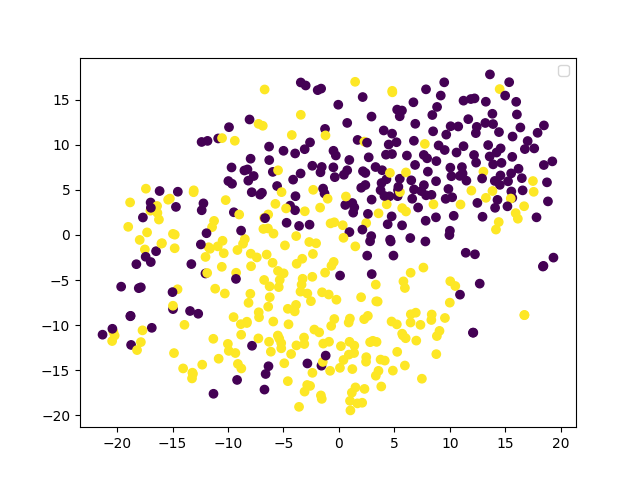
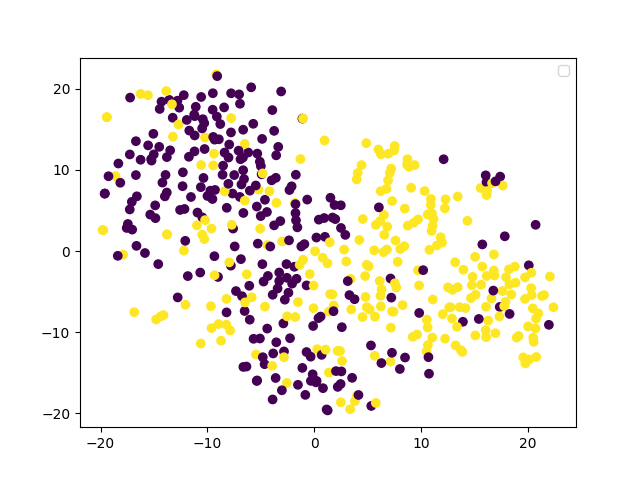
hw-2

diff --git a/hw9/problem2.py b/hw9/problem2.py
@@ -51,36 +51,30 @@ for i, img in enumerate(imgs):
     plt.imshow(img)
 
 
-# img_dataloader = DataLoader(img_dataset, batch_size= 6, shuffle=False)
-# for data in img_dataloader:
-#     img = data
-#     img = img.cuda()
-#
-#     output1, recs = model(img)
-#     break
 
 # # 畫出 reconstruct 的圖
-inp = torch.Tensor(trainX_preprocessed[indexes,]).cuda()
-# inp_ = []
-# for  i in range(inp.shape[0]):
-#     a = transforms.ToPILImage()(inp[i])
-#     a = transforms.ToTensor()(a)
-#     # a = transforms.Normalize(mean=[0.485, 0.456, 0.406], std=[0.229, 0.224, 0.225])(a)
-#     a = torch.unsqueeze(a, 0)
-#     inp_.append(a)
-# inp_ = torch.vstack(inp_)
-# inp_ = inp_.cuda()
-#
-#
-latents, recs = model(inp)
+inp = trainX_preprocessed[indexes,]
+inp_ = []
+for  i in range(inp.shape[0]):
+    a = inp[i].astype(np.uint8)
+    a = transforms.ToPILImage()(a)
+    a = transforms.ToTensor()(a)
+    # a = transforms.Normalize(mean=[0.485, 0.456, 0.406], std=[0.229, 0.224, 0.225])(a)
+    a = torch.unsqueeze(a, 0)
+    inp_.append(a)
+inp_ = torch.vstack(inp_)
+inp_ = inp_.cuda()
+
+
+latents, recs = model(inp_)
 unorm = UnNormalize(mean=(0.485, 0.456, 0.406), std=(0.229, 0.224, 0.225))
 # unorm = UnNormalize(mean=(0.406, 0.456, 0.485), std=(0.225, 0.224,0.229))
 
 # for i in range(recs.shape[0]):
 #     recs[i] = unorm(recs[i])
 # recs = recs * 255.0
-recs = ((recs + 1) / 2).cpu().detach().numpy()
-# recs = recs.cpu().detach().numpy()
+# recs = ((recs + 1) / 2).cpu().detach().numpy()
+recs = recs.cpu().detach().numpy()
 recs = recs.transpose(0, 2, 3, 1)
 
 for i, img in enumerate(recs):

diff --git a/hw9/dataset.py b/hw9/dataset.py
@@ -14,8 +14,8 @@ def preprocess(image_list):
       image_list: List of images (9000, 3, 32, 32)
     """
     image_list = np.array(image_list)
-    image_list = np.transpose(image_list, (0, 3, 1, 2))
-    image_list = (image_list / 255.0) * 2 - 1
+    # image_list = np.transpose(image_list, (0, 3, 1, 2))
+    # image_list = (image_list / 255.0) * 2 - 1
     image_list = image_list.astype(np.float32)
     return image_list
 
@@ -48,14 +48,12 @@ class Image_Dataset(Dataset):
 
     def __getitem__(self, idx):
         images = self.image_list[idx]
-        images = torch.from_numpy(images)
-        # images = images / 255.0#self.__train_aug()(images)
+        images = images.astype(np.uint8)
+        images = self.__train_aug()(images)
         return images
 
 
 trainX = np.load(root  + 'trainX.npy')
-# trainX_mean = np.mean(trainX, axis=0)
-# trainX = trainX - trainX_mean
 trainX_preprocessed = preprocess(trainX)
 img_dataset = Image_Dataset(trainX_preprocessed)
 

diff --git a/hw9/config.py b/hw9/config.py
@@ -1,1 +1,1 @@
-func = "0/"
+func = "2/"

diff --git a/hw9/readme.md b/hw9/readme.md
@@ -11,7 +11,7 @@
 |---| ---| ---|--- | ---- | ---- |
 |baseline 0|-|-|![p1](image_saved/0/p1.png)|![p1](image_saved/0/p2.png)|![p1](image_saved/0/p3.png)||
 |1|加上了BN|epoch [100/100], loss:5.06923|![p1](image_saved/1/p1.png)|  ![p2](image_saved/1/p2.png)|![ma](image_saved/1/p3.png)
-
+|2|[-1,1]->[0,1]的normalization 效果差了一些|-|0.649 ![p1](image_saved/2/p1.png)| ![p1](image_saved/2/p2.png)|![p1](image_saved/2/p3.png)|
 
 
 
